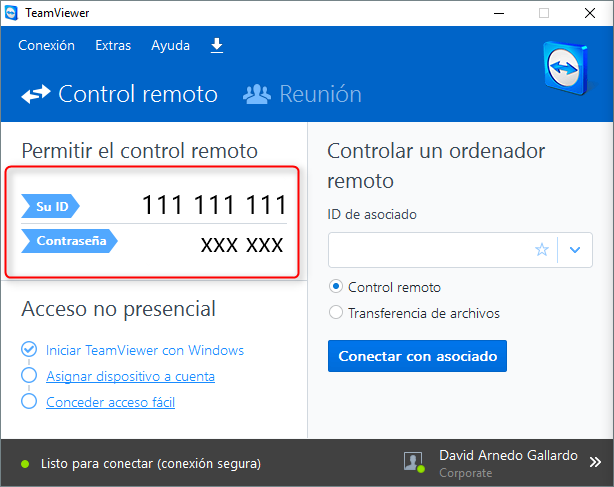
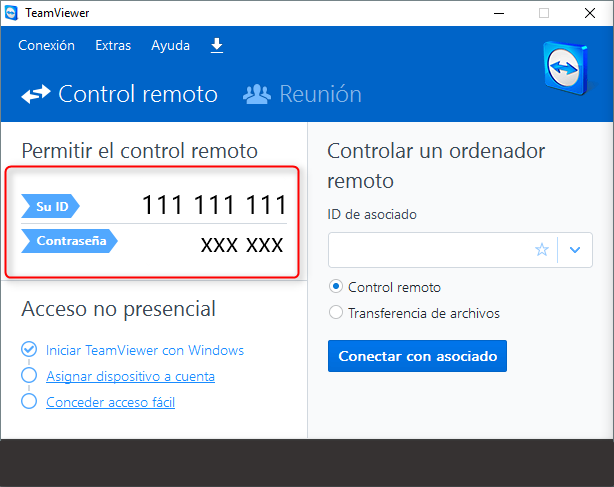
Version 1.1 | Change execute program page

Changed region(s): [[0.0, 0.924, 1.0, 1.0]]

diff --git a/index.html b/index.html
@@ -68,8 +68,9 @@
             </dip>
             <div class="container-text">
                 <span>Ejecutar el programa</span>
-                <p>Haga doble clic sobre el icono de "Team Viewer". Una vez abierto, proporcione el identificador y la contraseña
-                    al equipo informático de Victransa</p>
+                <p>Haga doble clic sobre el icono de "Team Viewer". Una vez abierto, haga clic en "Ayuda" → "Acerca de TeamViewer"</p>
+                <img class="teamViewer" src="img/teamViewerAcerca.png" alt="Smiley face" height="auto" width="">
+                <p>A continuación proporcione la versión juntamente con el identificador y la contraseña, al equipo informático de Victransa</p>
                 <img class="teamViewer" src="img/teamViewer.png" alt="Smiley face" height="auto" width="500px">
             </div>
         </div>
